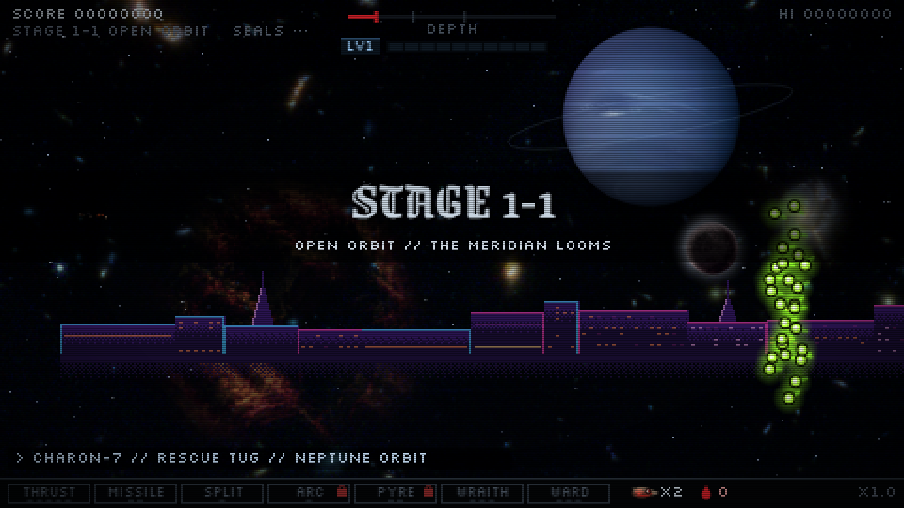
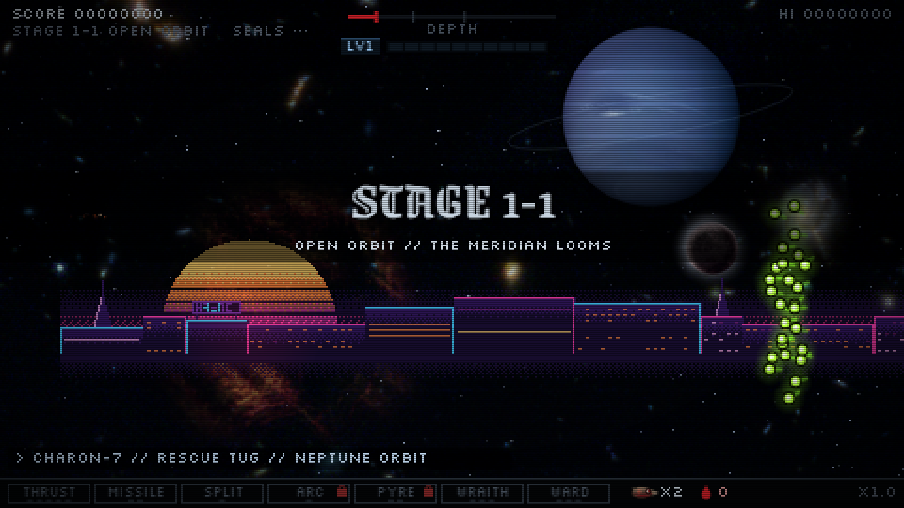
feat: derelict skyline round 2, harder vaporwave and the sunset disc in play
Matt's round-2 notes on the vaporwave skyline (src/render/terrain.ts, render-only):

- Neon .5a -> .75a, windows and spire highlights .45a -> .6a
- More magenta: 70% of blocks edged magenta (was 50%), magenta-lit floors on
  30% of those; heartbeat windows retuned to stay about 1 in 10 overall
- New horizon haze behind the skyline only: #ff3fa4 stepped into #2a1450 in
  3-row Bayer bands, dissolving at the top, 30 rows tall, baked once, drawn at
  .45a over DERE's span (never across the play area)
- Sunset disc moved from off+1560 (never on screen: space fades before it comes
  round on both layouts) to off+100 (DV.discX): on screen through all of short's
  Open Orbit and 78% of long4's, near screen centre mid-stage, and clear of
  Triton and Neptune. Slices now start above the roofline; nothing drawn below
  the skyline's footing
- Lime enemy orbs checked over the brighter skyline: still clearly readable
  (after-02-orbit-fire)

Rig: tools/derelict-shots.mjs gains --inplay (one frame of untouched real
play). after-* shots retaken, before-* kept.

Gates: vitest 383/383 (rng-split included), build OK, harness PASS vs
baseline @ 8ff9ba4 (sim st unchanged; canvas hashes differ, advisory).

Studio review: pending (full hierarchy pass not yet run on this branch).

Changed region(s): [[0.0619, 0.4724, 1.0, 0.7972]]

diff --git a/src/render/terrain.ts b/src/render/terrain.ts
@@ -290,10 +290,20 @@ const VP = {
 };
 /** skyline tuning: every live light stays at or under half the layer fade (readability over bullets) */
 const DV = {
-  neonA: .5, // roof/side neon and sign tubes, x a (direction: neon <= .5a)
-  lightA: .45, // windows and spire highlights, x a: dimmer than neon so the edges carry the silhouette
-  discA: .6, // the sunset disc's drawImage, x a: background, never brighter than the bullets in front of it
-  discR: 46, // inside the old ring's 48 px radius, same centre (off+1560, base-10)
+  neonA: .75, // roof/side neon and sign tubes, x a (Matt, round 2: push the vaporwave; lime orbs still read on top)
+  lightA: .6, // windows and spire highlights, x a: a step under the neon so the edges carry the silhouette
+  magK: .7, // share of blocks edged magenta rather than cyan (round 2: more magenta)
+  discA: .7, // the sunset disc's drawImage, x a: background, never brighter than the bullets in front of it
+  discR: 46, // inside the old ring's 48 px radius, centre at base-10 like the ring
+  // disc x relative to `off`. The old ring's +1560 was never on screen: Open Orbit ends at off = -12 (short, x1 2300)
+  // and -262 (long4, x1 4380), and space fades out long before +1560 comes round. At +100 the whole disc is on screen
+  // from the first frame of Open Orbit (rx 364) through all of short's orbit (rx 88 at its end) and 78% of long4's
+  // (gone at scroll ~3420), near screen centre mid-stage on both (short rx 226 at 1150, long4 rx 240 at ~1030).
+  // Anything past ~+103 overlaps Triton (x W*.9 - sc*.028, y 132) as the faster disc overtakes it; +100 never does,
+  // and Neptune (y 62, r 48) ends above the disc's top row (127)
+  discX: 100,
+  hazeA: .45, // the horizon haze's drawImage, x a: faint, the dither carries the ramp
+  hazeH: 30, // haze rows above the base line: low and short, behind the blocks only (tallest roof is 26)
   top: 62, // bake rows above the base line: tallest block (26) + tallest spire (34) + mast
   foot: 18, // body rows below the base line (the old fillRect's +18), dissolving to the sky
   flickP: [100, 240], // frames between a flickering edge's drop-outs
@@ -326,7 +336,7 @@ function bakeDerelict() {
   DERE.forEach((s, i) => {
     const t = B - s.h, // roof row
       H = s.h + DV.foot,
-      L = { n: hash(i * 12.9) < .5 ? VP.mag : VP.cyan, side: hash(i * 3.7 + .2) < .5 ? 0 : s.w - 1, win: [], heart: [], hi: [], sign: [], lc: VP.orange, fl: null };
+      L = { n: hash(i * 12.9) < DV.magK ? VP.mag : VP.cyan, side: hash(i * 3.7 + .2) < .5 ? 0 : s.w - 1, win: [], heart: [], hi: [], sign: [], lc: VP.orange, fl: null };
     // body: 3 solid rows of the band, a Bayer ramp into the body colour, then the last 10 rows dissolve into the sky
     const D = Math.max(4, Math.min(8, s.h - 3));
     for (let yy = 0; yy < H; yy++) {
@@ -353,6 +363,7 @@ function bakeDerelict() {
         }
       for (; y > t - s.sp; y--) put(cx, y - 1, BAND);
     } else if (hash(i * 5.3) < .15) L.lc = VP.sun; // sun yellow, sparingly
+    else if (L.n === VP.mag && hash(i * 2.7 + .9) < .3) L.lc = VP.mag; // magenta-lit floors: still 4 colours a block
     if (sign) {
       // dead billboard on the roof: a rim-coloured frame, glyph mush of 3x5 cells, about half its tubes lit (live)
       const sw = Math.min(s.w - 6, 26) & ~1,
@@ -370,17 +381,17 @@ function bakeDerelict() {
         });
     } else {
       // sun-stripe windows: rows every 3 px down to just under the base line; 2x1 dashes or full-width 1 px stripes.
-      // About 1 in 10 windows overall beats magenta: 1 in 5 on the magenta-edged half, so a block keeps 4 colours
+      // About 1 in 10 windows overall beats magenta: 15% on the magenta-edged 70%, so a block keeps 4 colours
       const stripe = hash(i * 7.9 + .4) < .35;
       for (let r = 0, y = t + 3; y < B + 4; r++, y += 3) {
         if (hash(i * 1.7 + r * 9.1) < .3) continue; // a dark floor
         const ry = y - B;
         if (stripe) {
-          if (hash(i * 2.2 + r * 5.3) < .55) (L.n === VP.mag && hash(i * 6.1 + r * 3.3) < .2 ? L.heart : L.win).push([2, ry, s.w - 4]);
+          if (hash(i * 2.2 + r * 5.3) < .55) (L.n === VP.mag && hash(i * 6.1 + r * 3.3) < .15 ? L.heart : L.win).push([2, ry, s.w - 4]);
         } else
           for (let k = 0, x = 2; x + 2 <= s.w - 2; k++, x += 4) {
             if (hash(i * 7.31 + r * 3.7 + k * .913) > .45) continue;
-            (L.n === VP.mag && hash(i * 8.3 + r * 1.9 + k * .71) < .2 ? L.heart : L.win).push([x, ry, 2]);
+            (L.n === VP.mag && hash(i * 8.3 + r * 1.9 + k * .71) < .15 ? L.heart : L.win).push([x, ry, 2]);
           }
       }
     }
@@ -402,25 +413,49 @@ function bakeDerelict() {
     dp = di.data,
     SUN = rgb(VP.sun), OR = rgb(VP.orange), MAG = rgb(VP.mag),
     lit = new Uint8Array(n).fill(1);
-  // slices start just above centre: the solid run shrinks 6 -> 2 while the gap grows 1 -> 5
-  for (let y = r - 4, k = 0; y < n; k++) {
+  // the slices start 20 rows above centre, where they still clear the roofs (roof rows sit 16 above to 4 below the
+  // centre): the solid run shrinks 6 -> 2 while the gap grows 1 -> 5
+  for (let y = r - 20, k = 0; y < n; k++) {
     const gap = 1 + Math.floor(k / 1.6), run = Math.max(2, 6 - k);
     for (let g = 0; g < gap && y < n; g++, y++) lit[y] = 0;
     y += run;
   }
+  // nothing below where the block bodies start dissolving (base+8 = centre+18): no slices floating under the skyline
+  lit.fill(0, r + 18);
   for (let y = 0; y < n; y++) {
     if (!lit[y]) continue;
     const hw = Math.round(Math.sqrt(r * r - (y - r) * (y - r))),
       u = y / (n - 1);
     for (let x = r - hw; x <= r + hw; x++) {
       const b = bay(x, y),
-        col = u < .26 ? SUN : u < .34 ? ((u - .26) / .08 > b ? OR : SUN) : u < .56 ? OR : u < .64 ? ((u - .56) / .08 > b ? MAG : OR) : MAG;
+        col = u < .18 ? SUN : u < .26 ? ((u - .18) / .08 > b ? OR : SUN) : u < .36 ? OR : u < .44 ? ((u - .36) / .08 > b ? MAG : OR) : MAG;
       const o = (y * n + x) * 4;
       dp[o] = col[0]; dp[o + 1] = col[1]; dp[o + 2] = col[2]; dp[o + 3] = 255;
     }
   }
   d.putImageData(di, 0, 0);
-  return { cv, disc: dc, lit, live };
+  // horizon haze behind the skyline only (DERE's span, hazeH rows up from the base line): #ff3fa4 stepped into
+  // #2a1450 then dissolved, every step a Bayer density in 3-row bands (dithered, never an alpha gradient)
+  const hh = DV.hazeH,
+    hz = document.createElement('canvas');
+  hz.width = cw;
+  hz.height = hh;
+  const hc = hz.getContext('2d'),
+    hi = hc.createImageData(cw, hh),
+    hp = hi.data,
+    PINK = rgb(VP.mag), BAND2 = rgb(VP.band);
+  for (let y = 0; y < hh; y++) {
+    const up = Math.floor((hh - 1 - y) / 3) * 3 / hh; // 0 at the base line, ~1 at the top; stepped every 3 rows
+    for (let x = 0; x < cw; x++) {
+      const b = bay(x, y);
+      if (up > .55 && (up - .55) / .45 > b) continue; // the top rows dissolve into the sky
+      const col = up < .5 && up / .5 < b ? PINK : BAND2;
+      const o = (y * cw + x) * 4;
+      hp[o] = col[0]; hp[o + 1] = col[1]; hp[o + 2] = col[2]; hp[o + 3] = 255;
+    }
+  }
+  hc.putImageData(hi, 0, 0);
+  return { cv, disc: dc, haze: hz, lit, live };
 }
 // 1 Hz double beat (60 frames): a strong pulse, a weaker one 14 frames later, each falling off over 9 frames
 const beat = t => {
@@ -437,8 +472,8 @@ export function drawDerelict(a, sc) {
     ix = Math.round(off),
     T = $.T,
     { cv, live } = DBAKE;
-  // the sunset disc sits behind the blocks (a sun on the horizon), at the old ring's centre
-  const rx = Math.round(off + 1560),
+  // the sunset disc sits behind the haze and the blocks (a sun on the horizon); DV.discX says why it sits where it does
+  const rx = Math.round(off + DV.discX),
     ry = Math.round(base - 10),
     r = DV.discR,
     disc = rx < W + 120 && rx > -140;
@@ -454,11 +489,15 @@ export function drawDerelict(a, sc) {
       ctx.fillRect(rx - hw, ry - r + sy, hw * 2 + 1, 1);
     }
   }
-  // static blocks: one blit of the visible slice of the bake, at a whole-pixel x
+  // horizon haze, then the static blocks: one blit each of the visible slice of the bake, at a whole-pixel x
   const s0 = Math.max(0, -ix),
     s1 = Math.min(cv.width, W - ix);
-  ctx.globalAlpha = a;
-  if (s1 > s0) ctx.drawImage(cv, s0, 0, s1 - s0, cv.height, ix + s0, B - DV.top, s1 - s0, cv.height);
+  if (s1 > s0) {
+    ctx.globalAlpha = a * DV.hazeA;
+    ctx.drawImage(DBAKE.haze, s0, 0, s1 - s0, DV.hazeH, ix + s0, B - DV.hazeH, s1 - s0, DV.hazeH);
+    ctx.globalAlpha = a;
+    ctx.drawImage(cv, s0, 0, s1 - s0, cv.height, ix + s0, B - DV.top, s1 - s0, cv.height);
+  }
   // live lights: one path per colour, whole-pixel rects only (crisp, no anti-aliasing)
   const paths = {}, solo = [];
   const P = col => paths[col] || (paths[col] = new Path2D());
